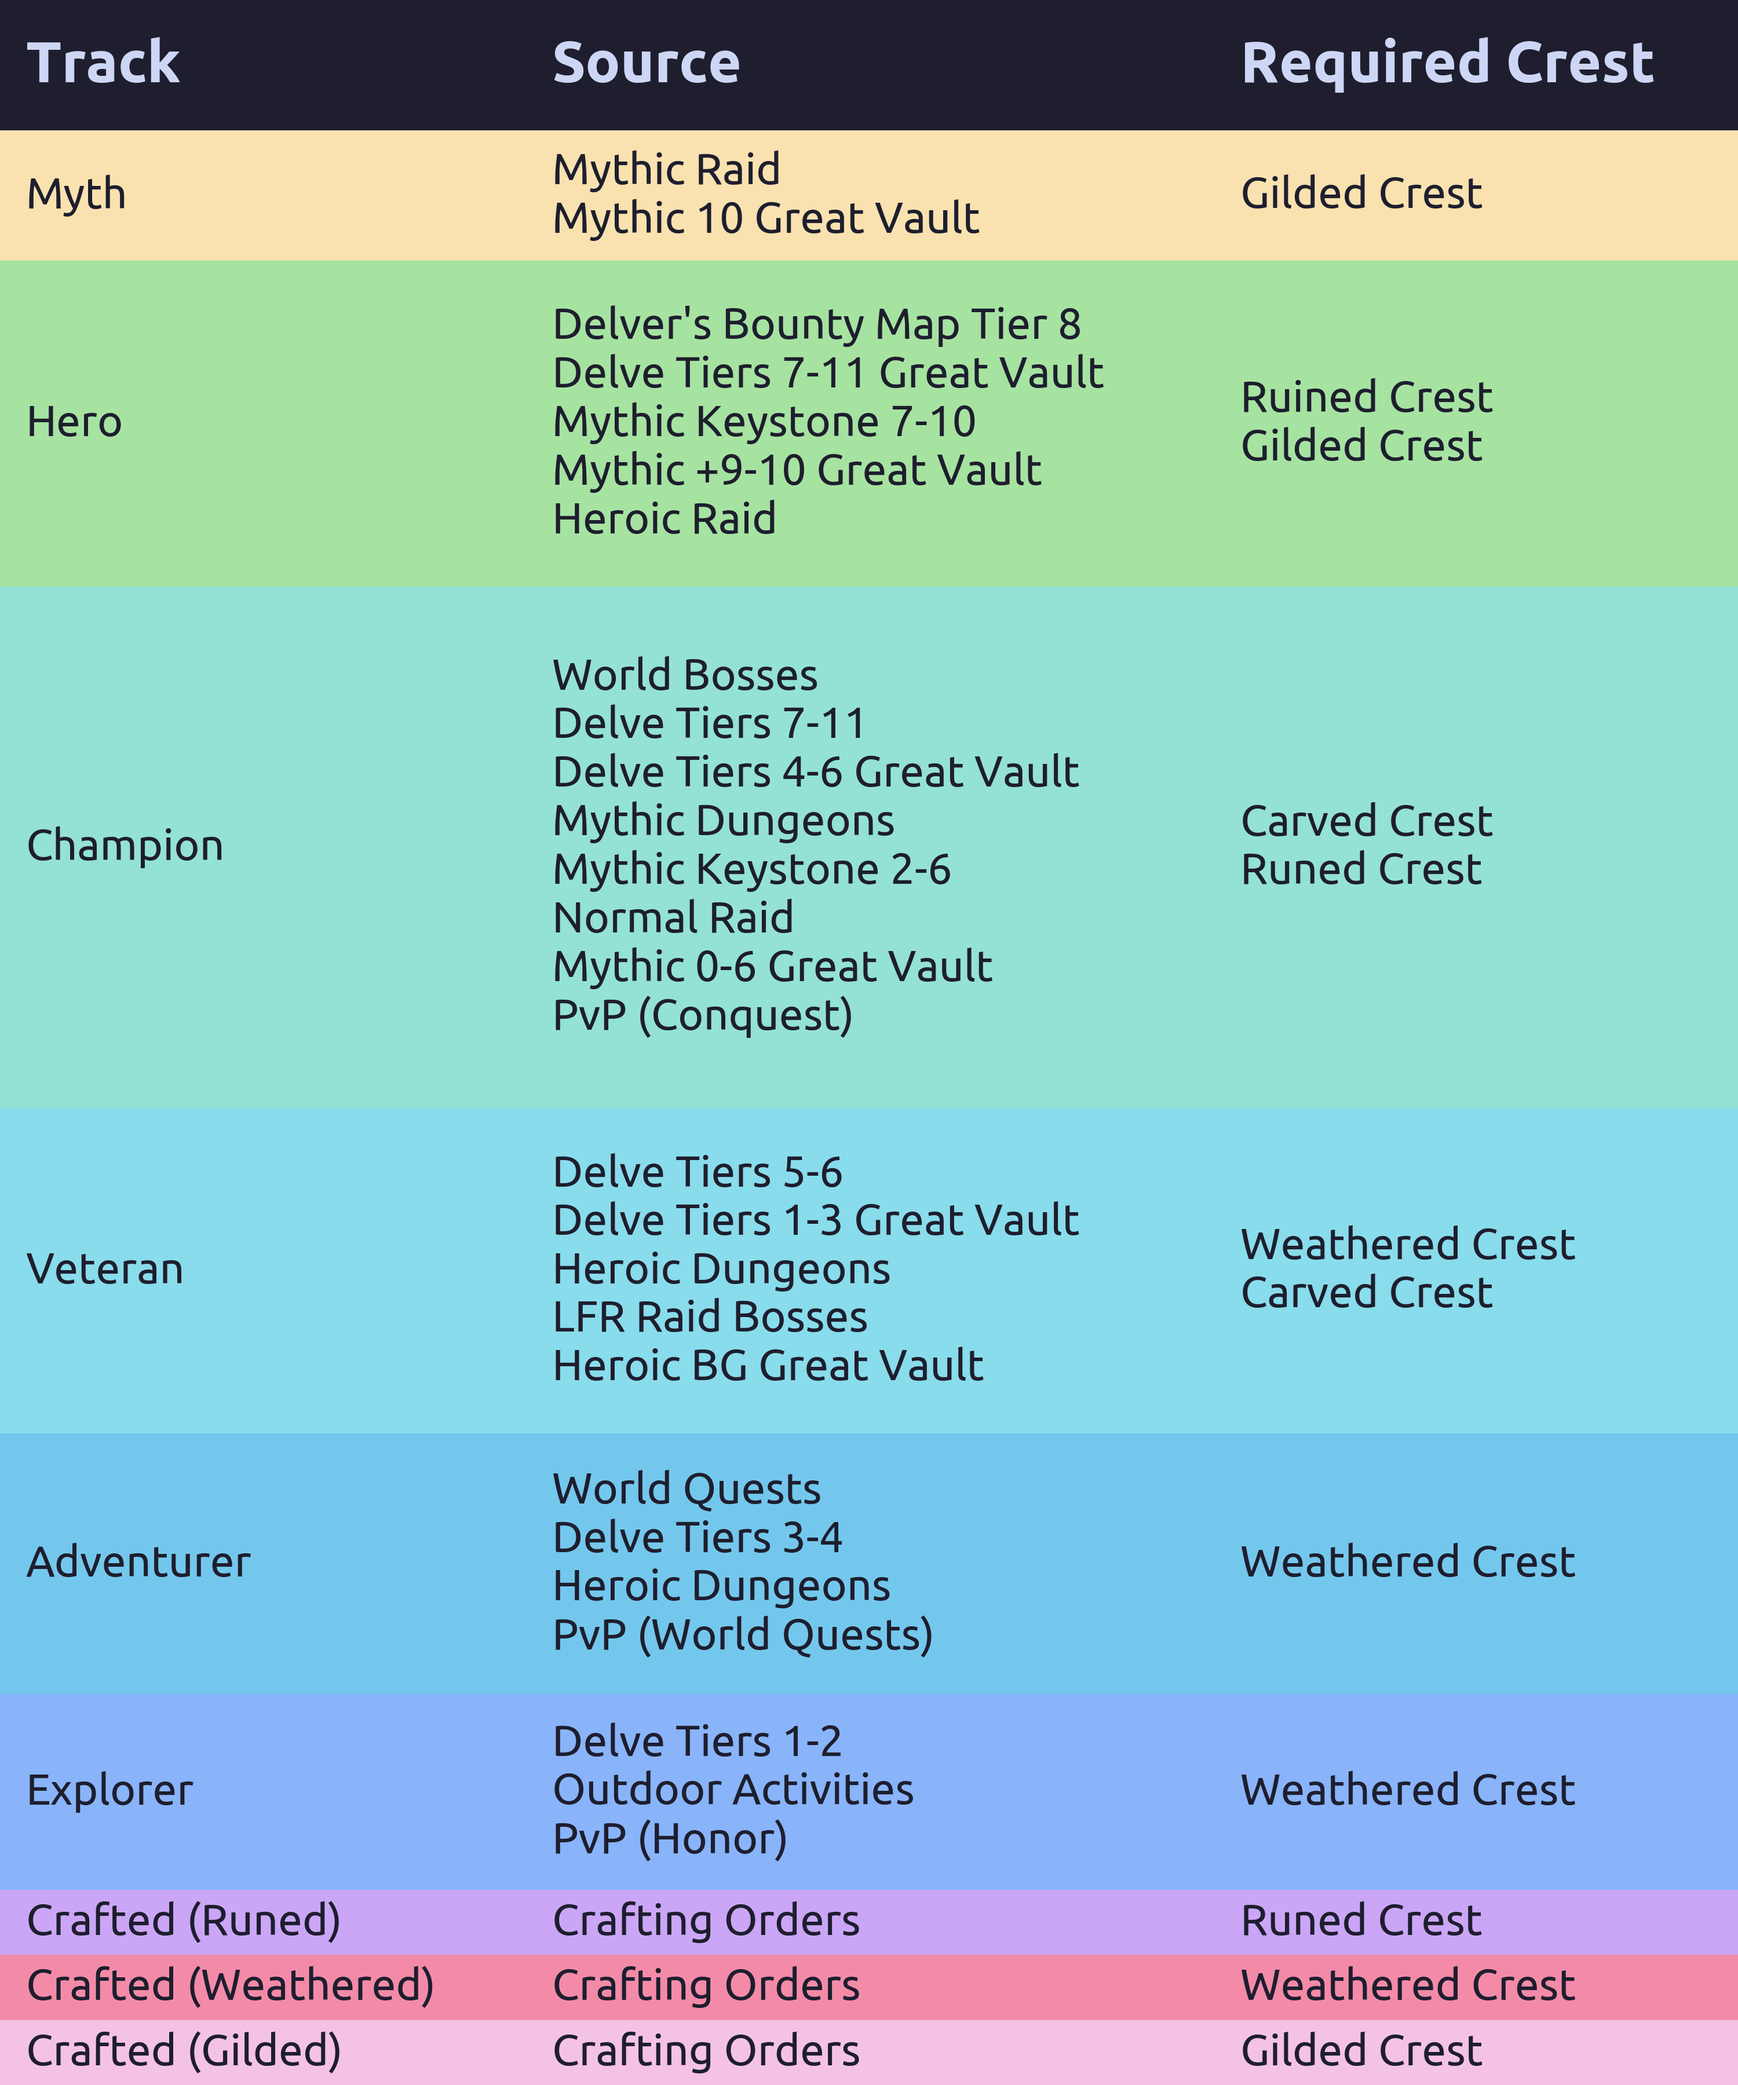
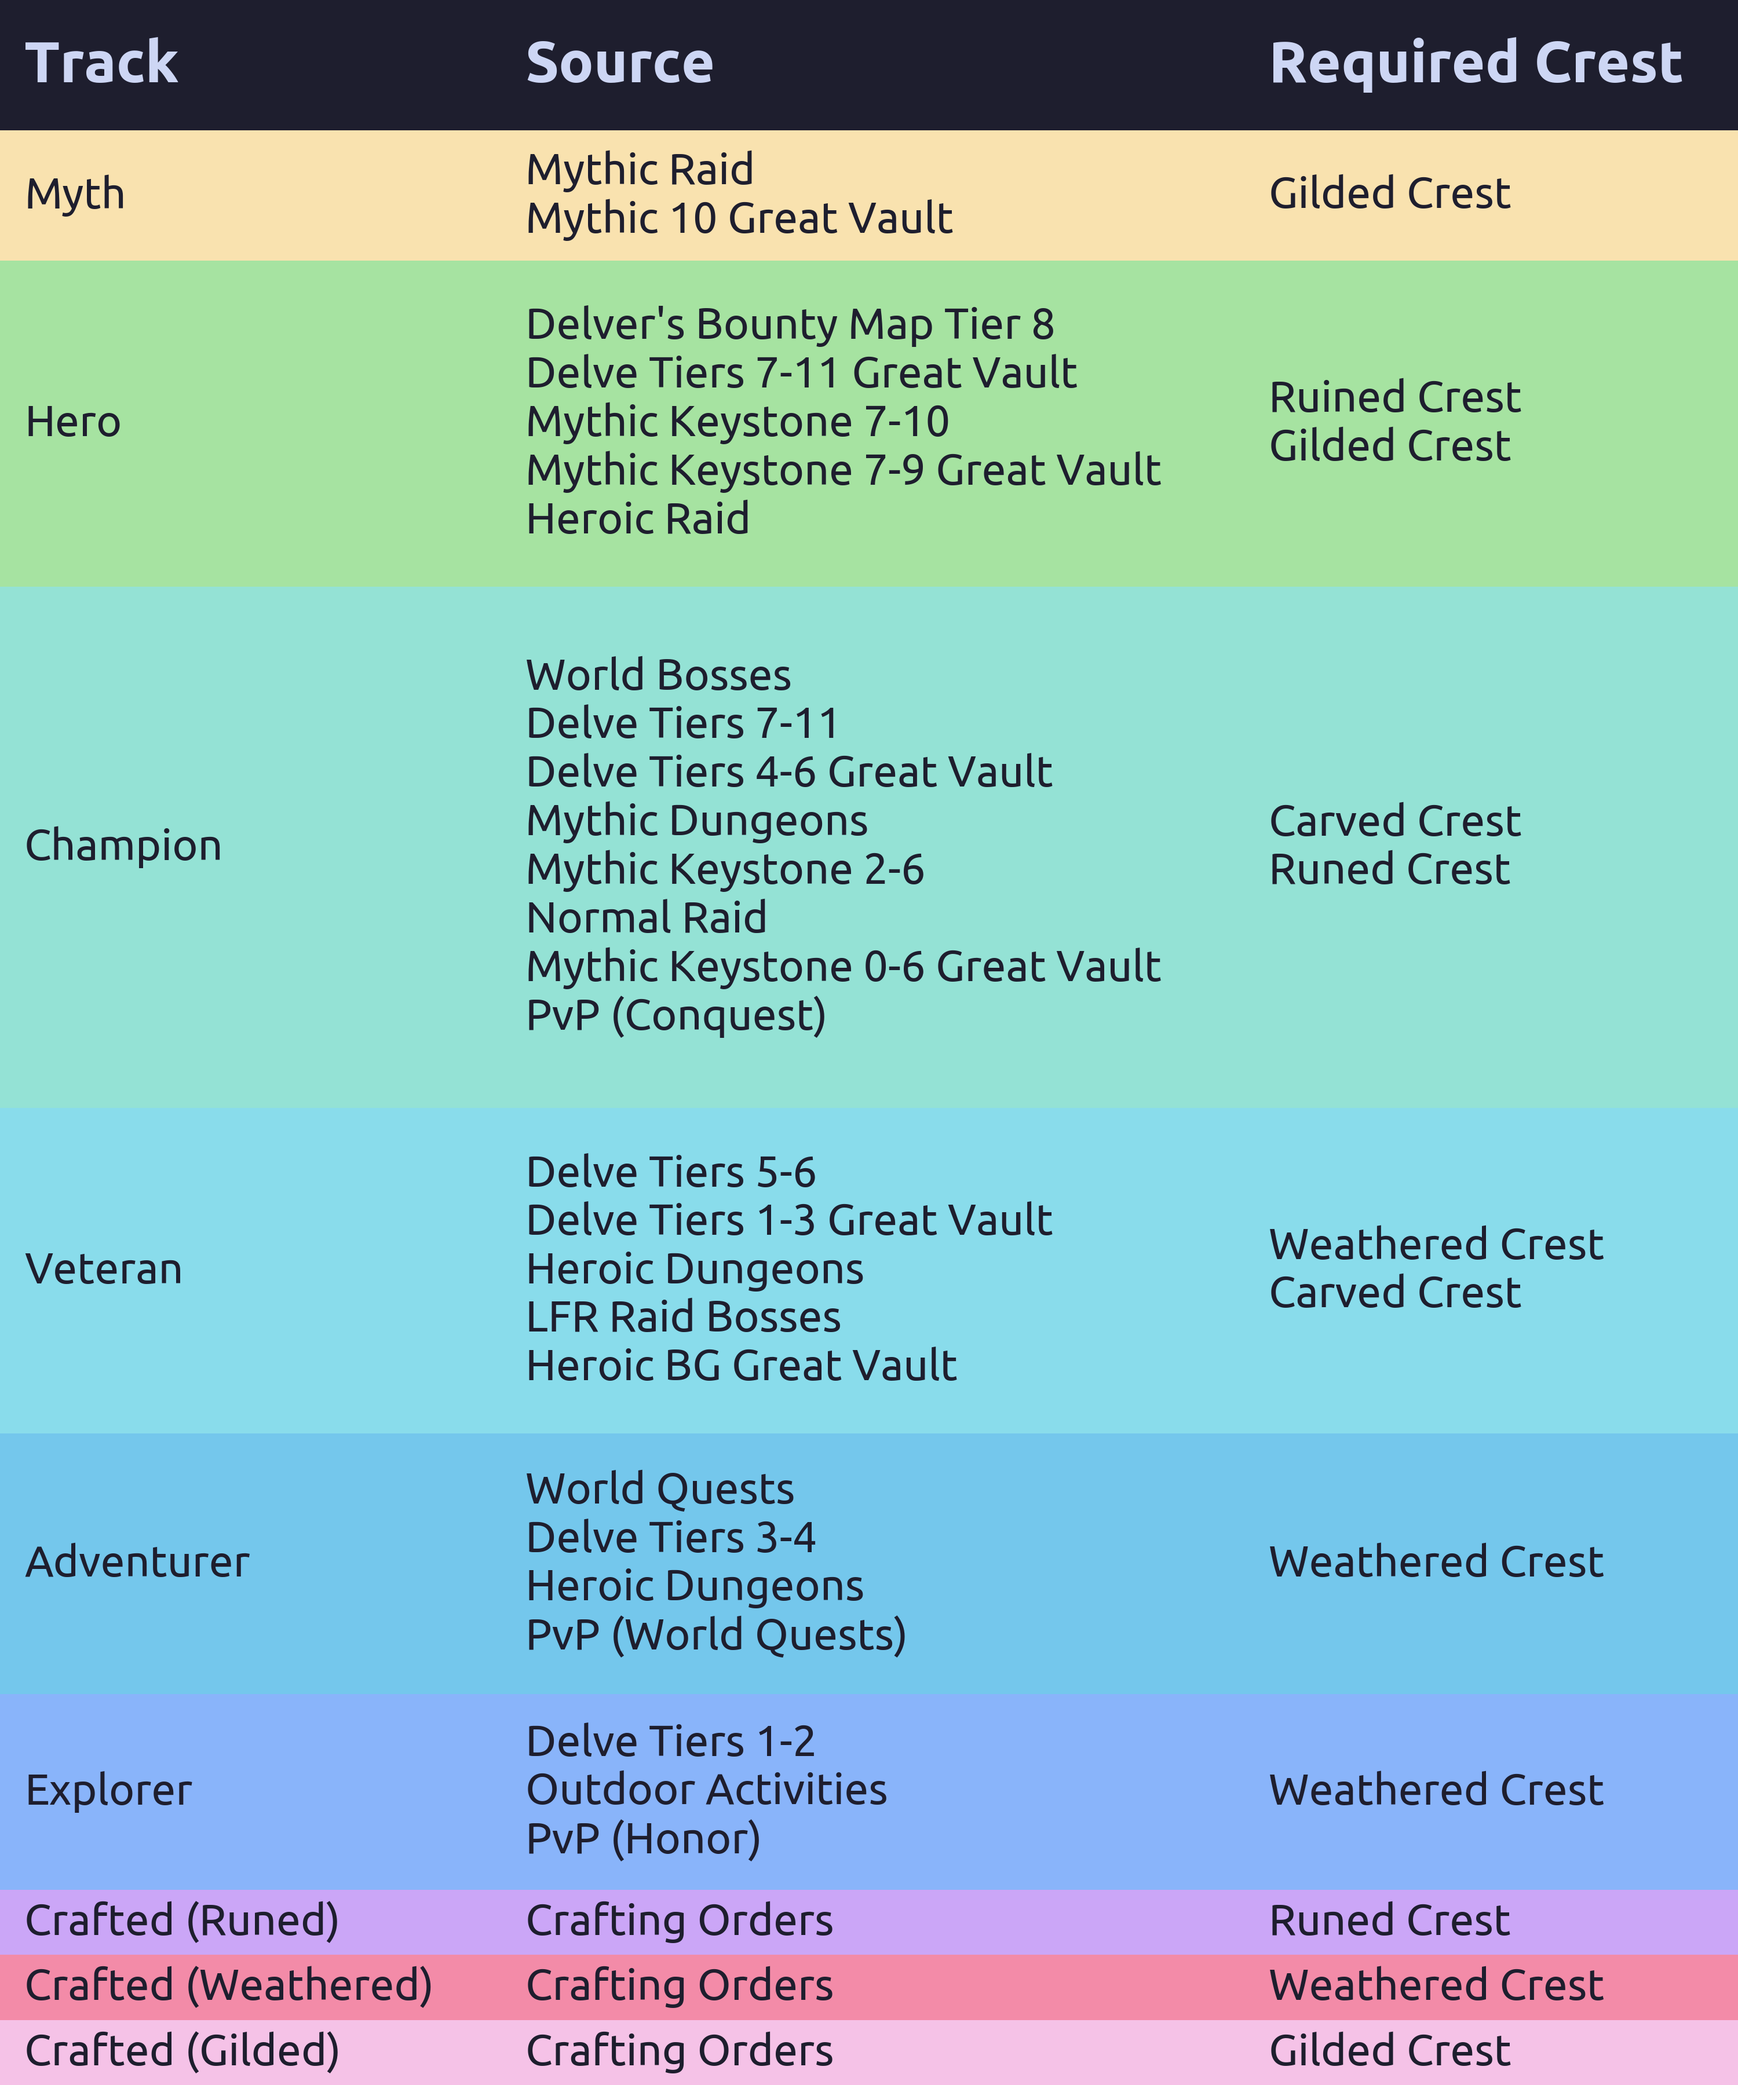
fix error

diff --git a/gear_prog/data.py b/gear_prog/data.py
@@ -65,7 +65,7 @@ gear_source_data = {
             "Delver's Bounty Map Tier 8",
             "Delve Tiers 7-11 Great Vault",
             "Mythic Keystone 7-10",
-            "Mythic +9-10 Great Vault",
+            "Mythic Keystone 7-9 Great Vault",
             "Heroic Raid",
         ],
         "Required Crest": "Ruined Crest\nGilded Crest",
@@ -78,7 +78,7 @@ gear_source_data = {
             "Mythic Dungeons",
             "Mythic Keystone 2-6",
             "Normal Raid",
-            "Mythic 0-6 Great Vault",
+            "Mythic Keystone 0-6 Great Vault",
             "PvP (Conquest)",
         ],
         "Required Crest": "Carved Crest\nRuned Crest",
